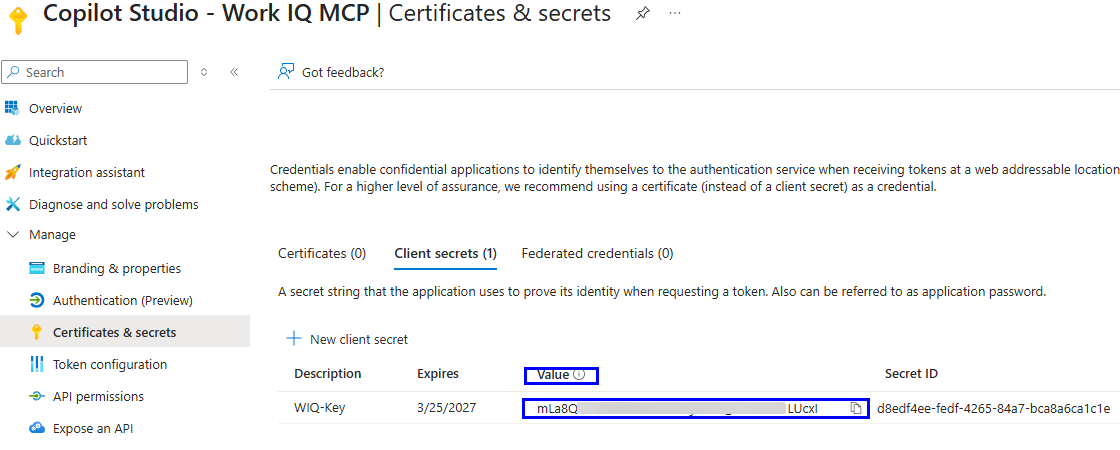
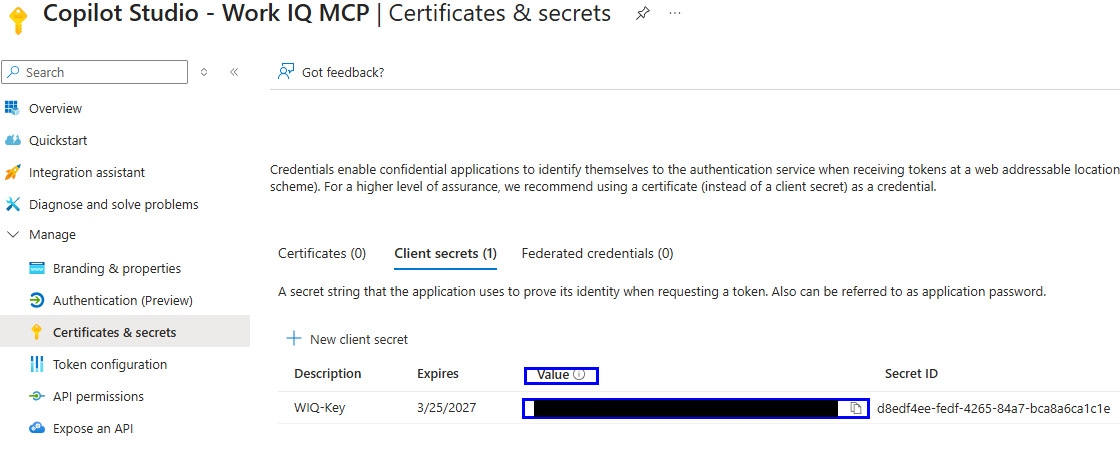
Clarify standard-harness onboarding and redact screenshots

Changed region(s): [[0.4688, 0.8711, 0.75, 0.9333]]

diff --git a/_posts/2026-09-25-connect-work-iq-mcp-standard-harness.md b/_posts/2026-09-25-connect-work-iq-mcp-standard-harness.md
@@ -25,7 +25,8 @@ https://workiq.svc.cloud.microsoft/mcp
 
 It is **not** a walkthrough for the separate Work IQ Mail, Calendar, or Teams MCP connectors.
 
-Microsoft documents [MCP onboarding for standard-harness agents](https://learn.microsoft.com/microsoft-copilot-studio/mcp-add-existing-server-to-agent). Its separate [packaged Work IQ preview](https://learn.microsoft.com/microsoft-copilot-studio/add-work-iq) is GitHub Copilot harness-specific; the validated manual connection here establishes technical usability, not an official support statement for this combination.
+> **Standard-harness connection:** Microsoft documents two generic MCP onboarding routes: the [Copilot Studio MCP onboarding wizard](https://learn.microsoft.com/microsoft-copilot-studio/mcp-add-existing-server-to-agent) and [creating a custom MCP connector in Power Apps](https://learn.microsoft.com/microsoft-copilot-studio/mcp-add-existing-server-to-agent#option-2-create-a-custom-mcp-connector-in-power-apps). This walkthrough uses the wizard with Microsoft Entra OAuth to connect the **unified Work IQ endpoint**, validated end to end through a successful `ask` call.
+{: .prompt-info }
 
 > **Important:** Using the unified Work IQ MCP endpoint from a standard-harness agent incurs usage-based billing. Connecting through a custom MCP tool doesn't make Work IQ usage free. Review [Work IQ: How It's Used, Licensed, and Controlled]({% post_url 2026-08-24-work-iq-context-layer-you-already-have %}) for licensing, billing, and spending controls before enabling the connection.
 {: .prompt-warning }
